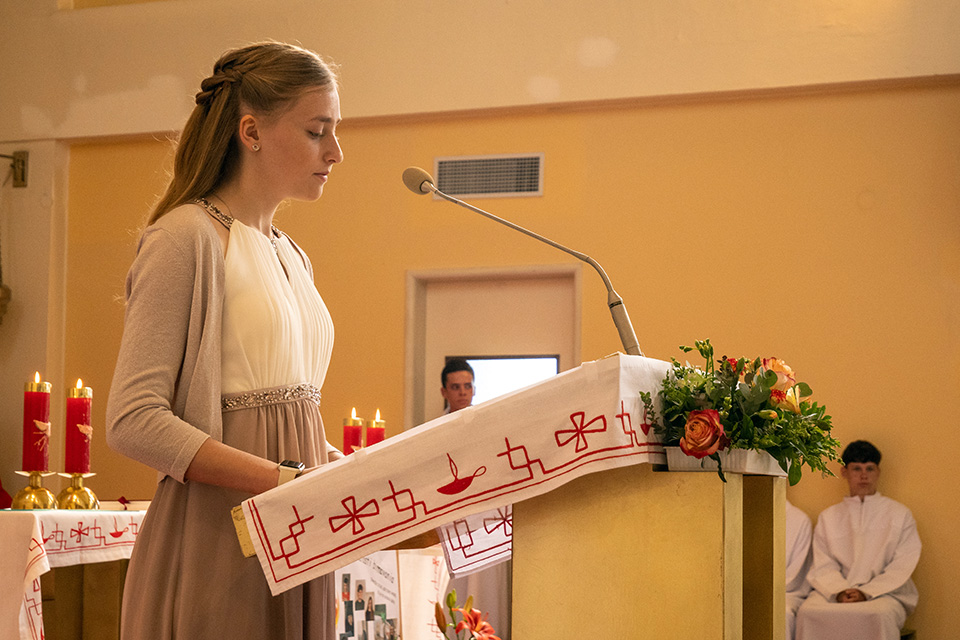
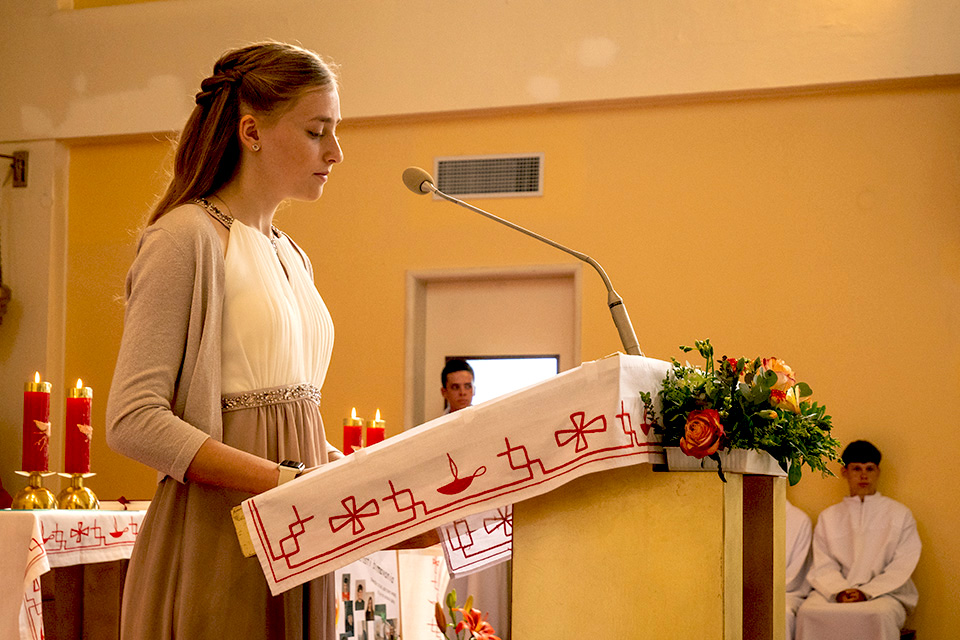
Tweak 2023 review photos

diff --git a/packages/trnavka-theme/resources/views/partials/report/services-dicaprio.blade.php b/packages/trnavka-theme/resources/views/partials/report/services-dicaprio.blade.php
@@ -123,7 +123,7 @@
                     <div class="col-lg-8 item-image @if(($i + 1) % 2 === 0) order-lg-last
 @endif">
                         @if(isset($service['image']))
-                            <img src="@asset('images/2023/' . $service['image'])?cb=2"/>
+                            <img src="@asset('images/2023/' . $service['image'])?cb=4"/>
                         @endif
                     </div>
                     <div class="col-lg-4 d-flex align-self-center">
